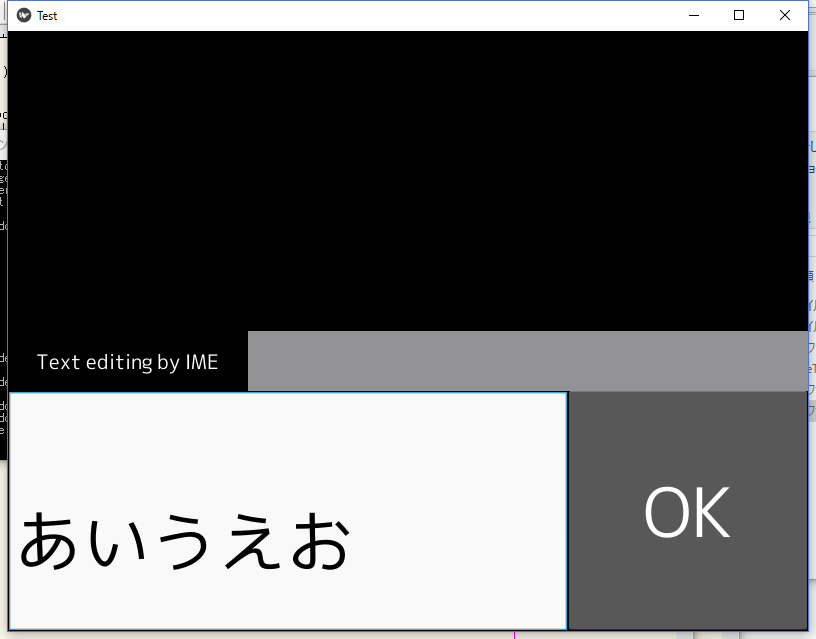
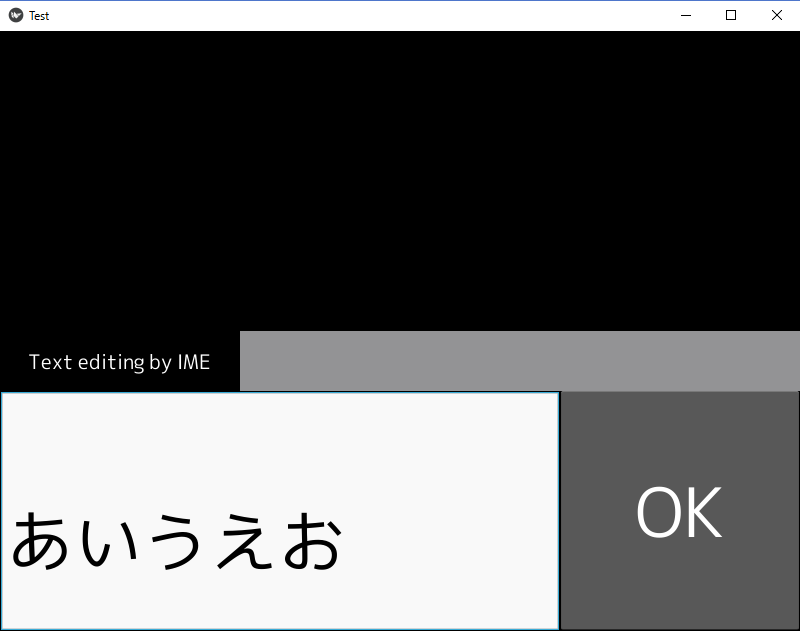
Organize code and add font license

Changed region(s): [[0.0, 0.0, 1.0, 1.0], [0.0, 0.0, 0.0625, 0.3613], [0.7812, 0.7528, 0.9062, 0.8732]]

diff --git a/main.py b/main.py
@@ -11,6 +11,7 @@ from kivy.resources import resource_add_path
 from TextInputIME import TextInputIME
 
 resource_add_path('./fonts')
+#use Japanese font
 LabelBase.register(DEFAULT_FONT, 'mplus-2c-regular.ttf') 
 
 class TextWidget(Widget):
@@ -19,20 +20,18 @@ class TextWidget(Widget):
     def __init__(self, **kwargs):
         super(TextWidget, self).__init__(**kwargs)
         self.text = ''
-        self.text2 = 'あ'
 
     def buttonClicked(self):
         self.text =  self.ids["text_box"].text
-        self.text2 =  self.ids["text_box"].text
 
     
-class TestApp(App):
+class ImeTestApp(App):
     def __init__(self, **kwargs):
-        super(TestApp, self).__init__(**kwargs)
+        super(ImeTestApp, self).__init__(**kwargs)
         
     def build(self):
         return TextWidget()
 
 if __name__ == '__main__':
 
-   TestApp().run()
+   ImeTestApp().run()

diff --git a/README.md b/README.md
@@ -1,9 +1,17 @@
 # kivy_textedit_sample
-Sample of textedit event
+Sample of textedit event 
 
 ## Editing
 ![Editing](./ss/editing.png)
 
+Full-width characters being entered are displayed in the "Text editiing by IME" label.
 
 ## Cpmplete edit
 ![Cpmplete](./ss/complete.png)
+
+After entering the enter key, letters are displayed in the TextInput widget when the input is confirmed.
+
+## About use font
+This sample uses M + FONTS font. This font is a free font.
+
+Official site https://mplus-fonts.osdn.jp/
